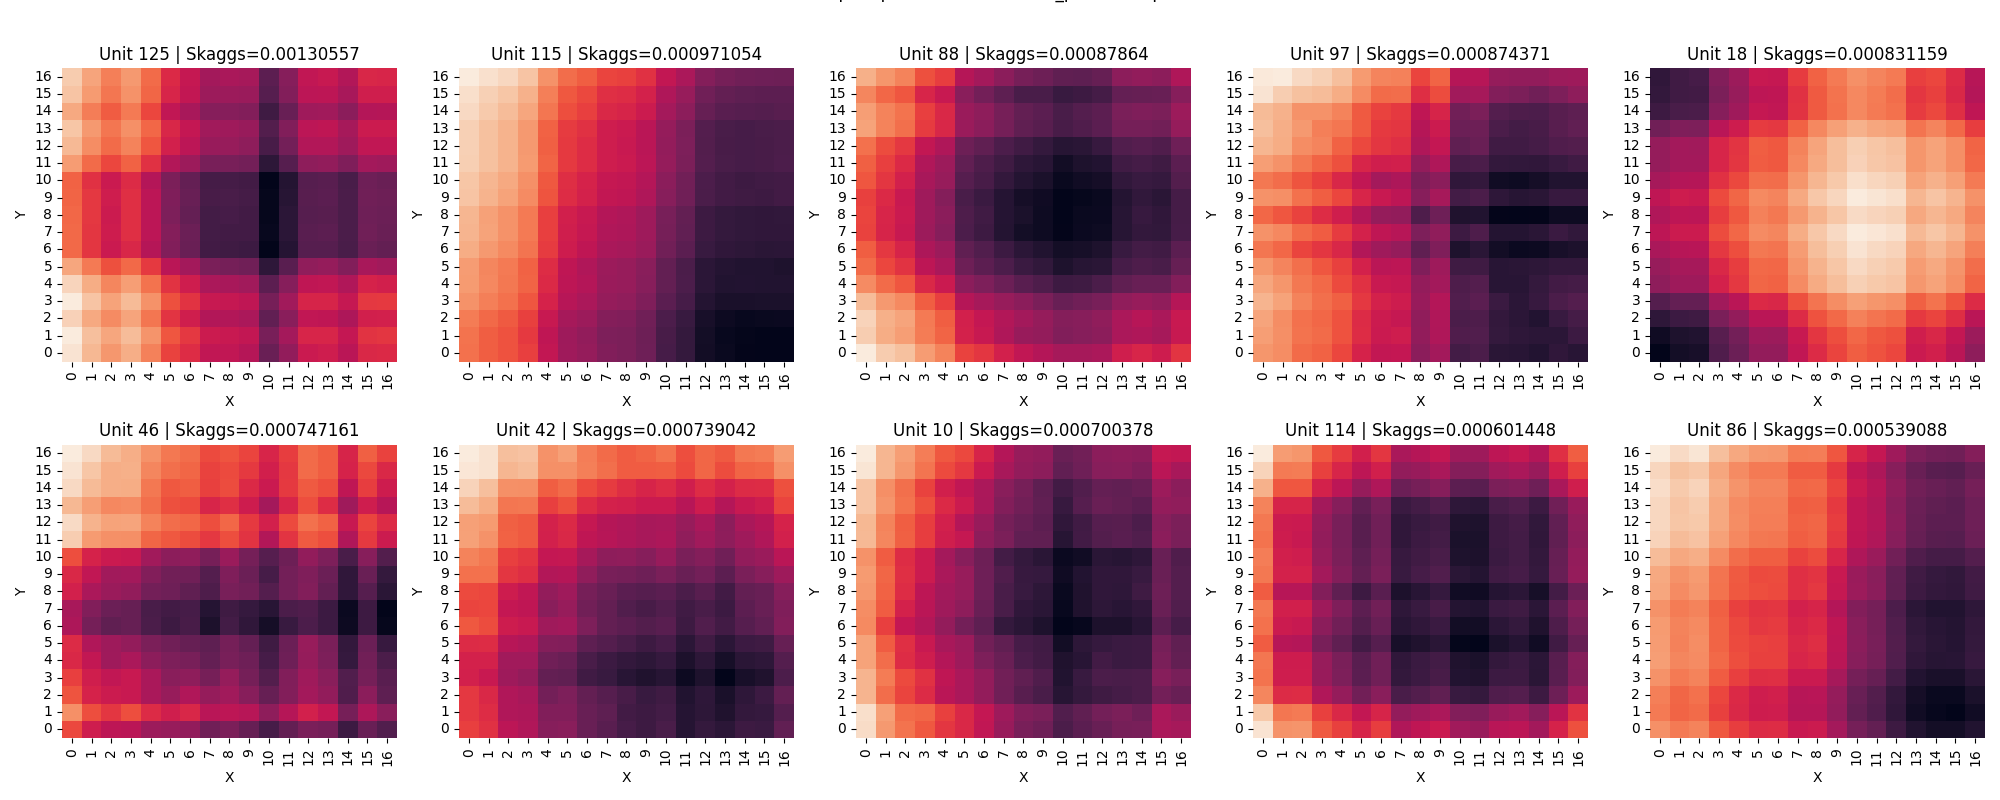
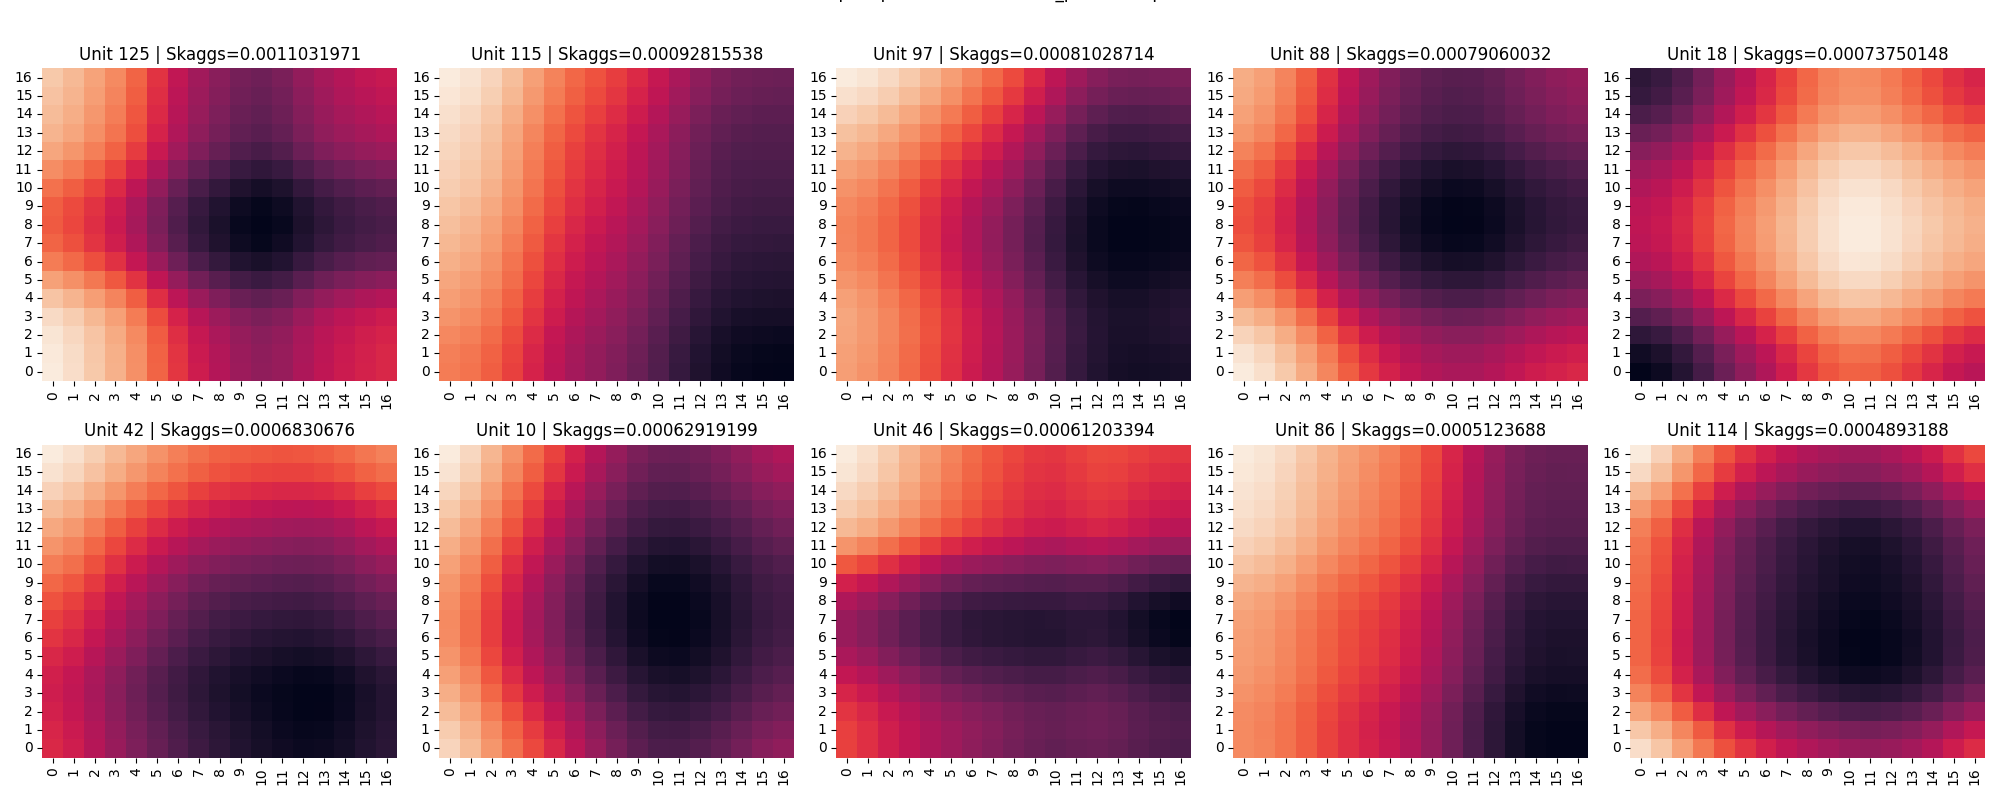
Gaussian smoothing prior to calculations and visualizations

diff --git a/Skaggs.py b/Skaggs.py
@@ -7,6 +7,7 @@ import tensorflow as tf
 from tensorflow.keras import backend as K
 import logging
 import argparse
+from scipy.ndimage import gaussian_filter
 
 import data
 import utils
@@ -68,17 +69,17 @@ def cache_builder(block, model, preprocessed_data, n_positions=289):
         # out is now (bs, C)
         bs = out.shape[0]
         idx = np.arange(start, start + bs)
-        pos_idx = idx // n_rotations   # 0..288
+        pos_idx = idx // n_rotations   # 00000 to 06935, where each position index is repeated 24 times for 24 rotations since that is how the Unity images are organized (all 24 rotations of position 0, then all 24 rotations of position 1, etc.)
 
-        lam_c_sum += out.sum(axis=0)
+        lam_c_sum += out.sum(axis=0) # sum channel activations across all images in batch for lambda_c
 
         for i in range(bs):
             p = pos_idx[i]
-            lam_i_sum[p] += out[i]
+            lam_i_sum[p] += out[i] # add all activations for position p across all rotations
 
     # average over rotations for lam_i, and over all samples for lambda_c
     lam_i = (lam_i_sum / float(n_rotations)).astype(np.float32) # (289, C)
-    lambda_c = (lam_c_sum / float(image_samples)).astype(np.float32) # (C,)
+    lambda_c = (lam_c_sum / float(image_samples)).astype(np.float32) # (C,), average lambda_c across all total images
 
     # save small cache
     np.savez_compressed(cache_path, lam_i=lam_i, lambda_c=lambda_c)
@@ -137,36 +138,44 @@ def skaggs_list(block, config, model, preprocess_funcx, data_path):
             preprocessed_data=preprocess_funcx,
         )
 
+    lam_i_smoothed = np.zeros_like(lam_i)
+
+    for c in range(lam_i.shape[1]):
+        field = lam_i[:, c].reshape(17,17) # unlfatten to 17x17 spatial map for each unit C. 
+        field = gaussian_filter(field, sigma=1) # smooth via Gauss' equation
+        lam_i_smoothed[:, c] = field.reshape(-1) # flatten back to (289, C) for Skaggs calculation
+
+    lam_i = lam_i_smoothed
+
     occupancy = occupancy_probability(data_path, movement_type='uniform', arena_size=(17,17))
     p = occupancy.reshape(-1)
 
     eps = 1e-10
-    ratio = lam_i / (lambda_c[None, :] + eps)     # (289, C)
+    ratio = lam_i / (lambda_c[None, :] + eps)
     skaggs = np.sum(p[:, None] * ratio * np.log2(ratio + eps), axis=0).astype(np.float32)  # (C,)
 
-    C = BLOCK_SPECS[block][2]
     return skaggs, lam_i 
     
-def find_top_k_skaggs_units_and_indexes(skaggs, k=10):
+def find_top_k_skaggs_indexes(skaggs, k=10):
     top_k_indexes = np.argsort(skaggs)[::-1][:k]
     return top_k_indexes
 
 def build_place_fields(config, model, preprocess_func, data_path, arena_size=(17,17), k=10):
     block = config['output_layer']
     skaggs, lambda_i = skaggs_list(block=block, config=config, model=model, preprocess_funcx=preprocess_func, data_path=data_path)
-    top_k_skaggs_units = find_top_k_skaggs_units_and_indexes(skaggs, k=k)
+    top_k_skaggs_units = find_top_k_skaggs_indexes(skaggs, k=k)
 
     cols = 5 
     rows = int(np.ceil(k / cols))
-    fig, axes = plt.subplots(rows, cols, figsize=(cols*4, rows*4))
+    fig, axes = plt.subplots(rows, cols, figsize=(cols*4, rows*4)) # creates figure with subplots in 5x2 shape (for top 10 units), with each subplot being 4x4 inches in size. Adjust cols and rows as needed for different k values.
     axes = np.array(axes).reshape(-1)
 
     for ax_i, unit in enumerate(top_k_skaggs_units):
         ax = axes[ax_i]
         heatmap = lambda_i[:, unit].reshape(arena_size)
-        heatmap = (heatmap - heatmap.min()) / (heatmap.max() - heatmap.min() + 1e-12)
+        heatmap = gaussian_filter(heatmap, sigma=1) # apply Gaussian smoothing to the place field for better visualization and so spatial info isn't concentrated and is distributed across neighboring spatial locations, which is more consistent with how place fields are observed in biological neurons. This also helps prevent a single spike in spatial activity from dominating the visualization and allows us to see the overall spatial knowledge of the unit more clearly.
+        sb.heatmap(np.log1p(heatmap), ax=ax, cbar=False) # use log scale for better visualization, so large spike in spatial activity doesn't overwhelm neighboring spikes in spatial knowledge
 
-        sb.heatmap(heatmap, ax=ax, cbar=False, vmin=0, vmax=1)
         ax.invert_yaxis()  
         ax.set_title(f"Unit {unit} | Skaggs={skaggs[unit]:.8g}")
 
